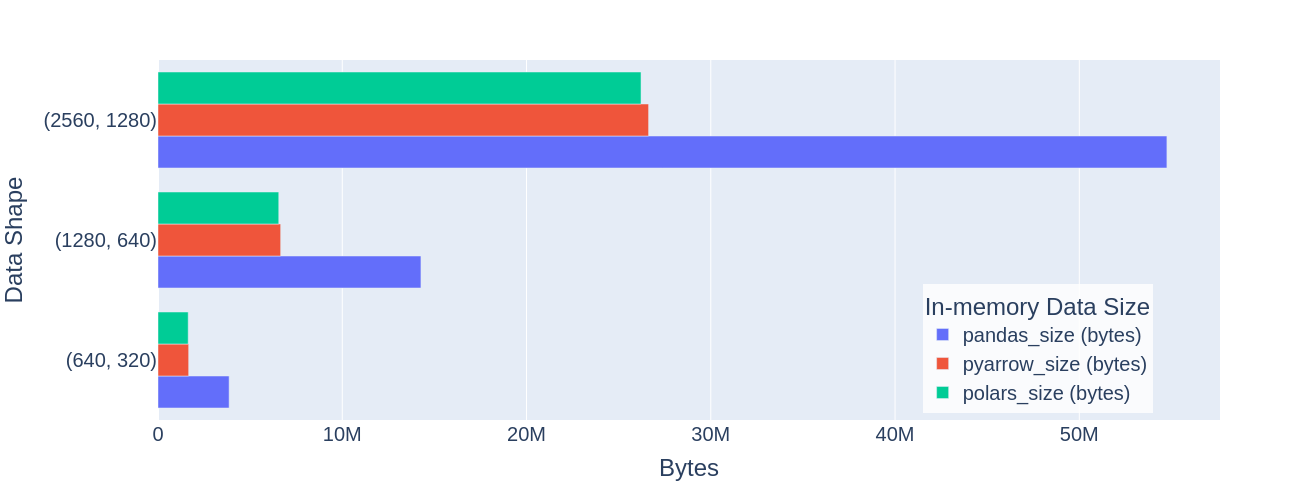
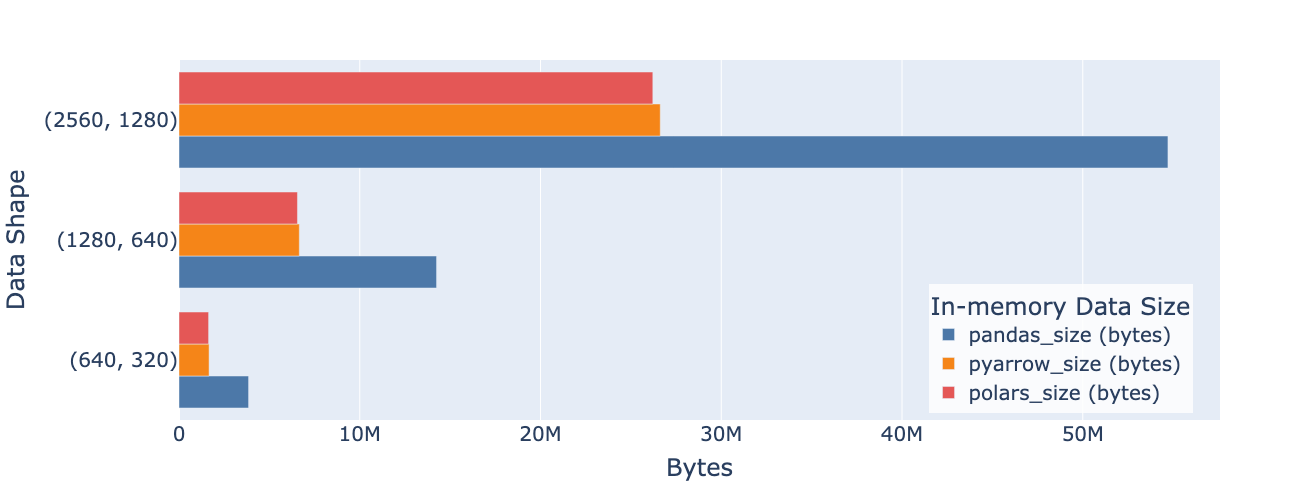
update color palette for in-mem comparisons

diff --git a/notebooks/arrow_analysis.py b/notebooks/arrow_analysis.py
@@ -123,6 +123,7 @@ fig = px.bar(
     barmode="group",
     labels={"dataframe_shape (rows, cols)": "Data Shape", "value": "Seconds"},
     width=1300,
+    color_discrete_sequence=px.colors.qualitative.T10
 )
 fig.update_layout(
     legend_title_text="In-memory Read Duration",
@@ -150,6 +151,7 @@ fig = px.bar(
     barmode="group",
     labels={"dataframe_shape (rows, cols)": "Data Shape", "value": "Bytes"},
     width=1300,
+    color_discrete_sequence=px.colors.qualitative.T10
 )
 fig.update_layout(
     legend_title_text="In-memory Data Size",
@@ -163,3 +165,4 @@ pio.write_image(fig, mem_read_size_image)
 Image(url=mem_read_size_image)
 
 # + papermill={"duration": 0.005354, "end_time": "2025-05-14T17:08:14.066558", "exception": false, "start_time": "2025-05-14T17:08:14.061204", "status": "completed"}
+
